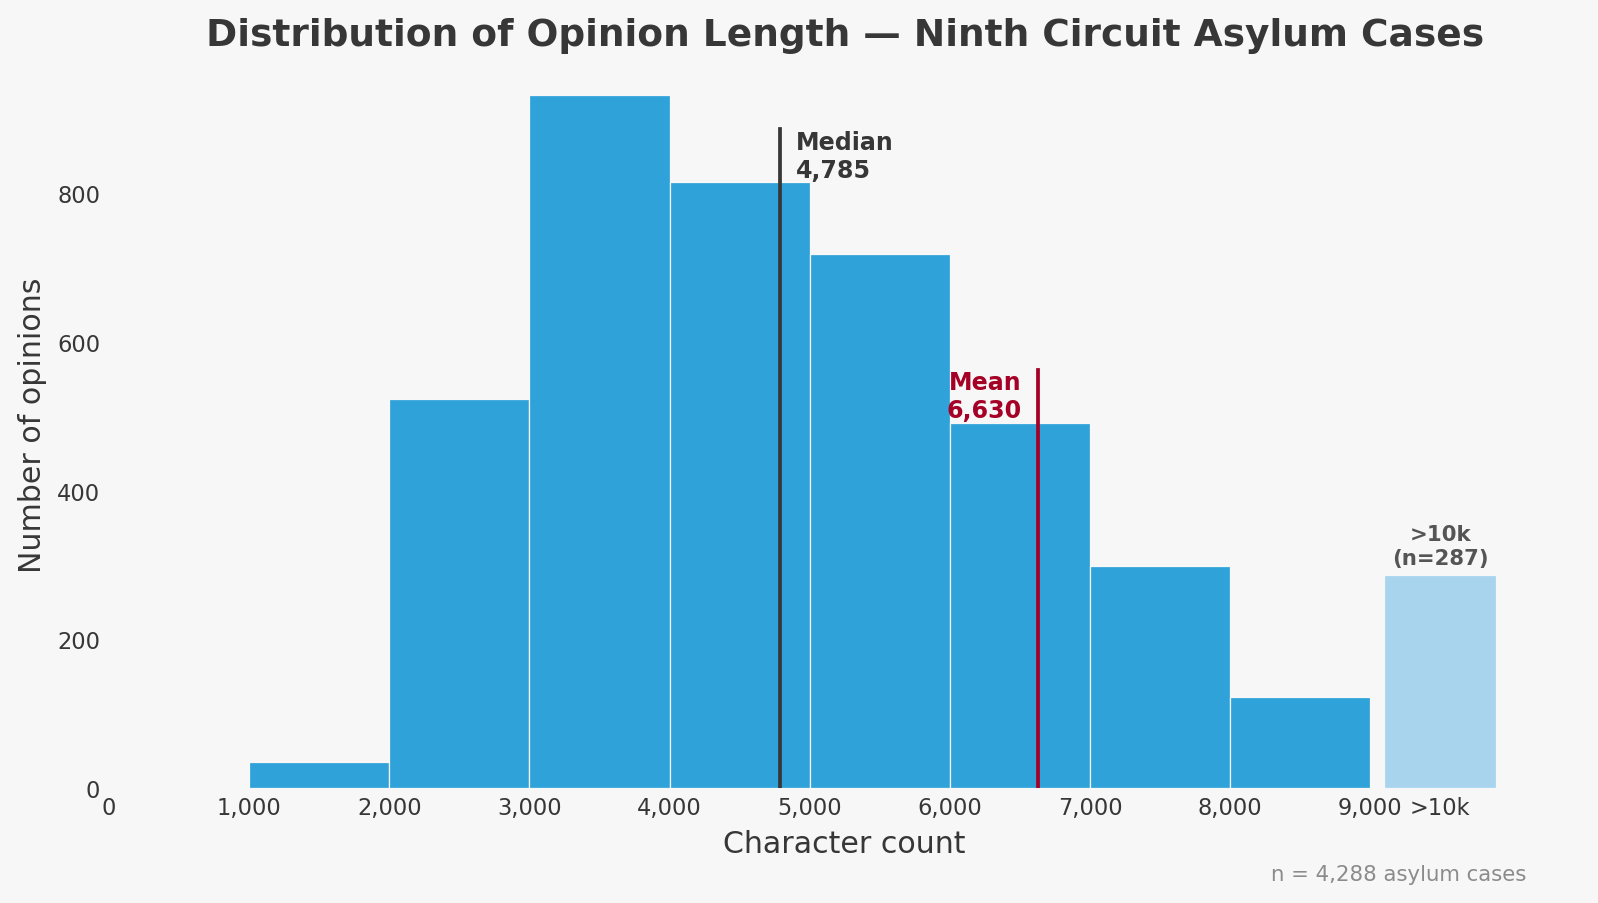
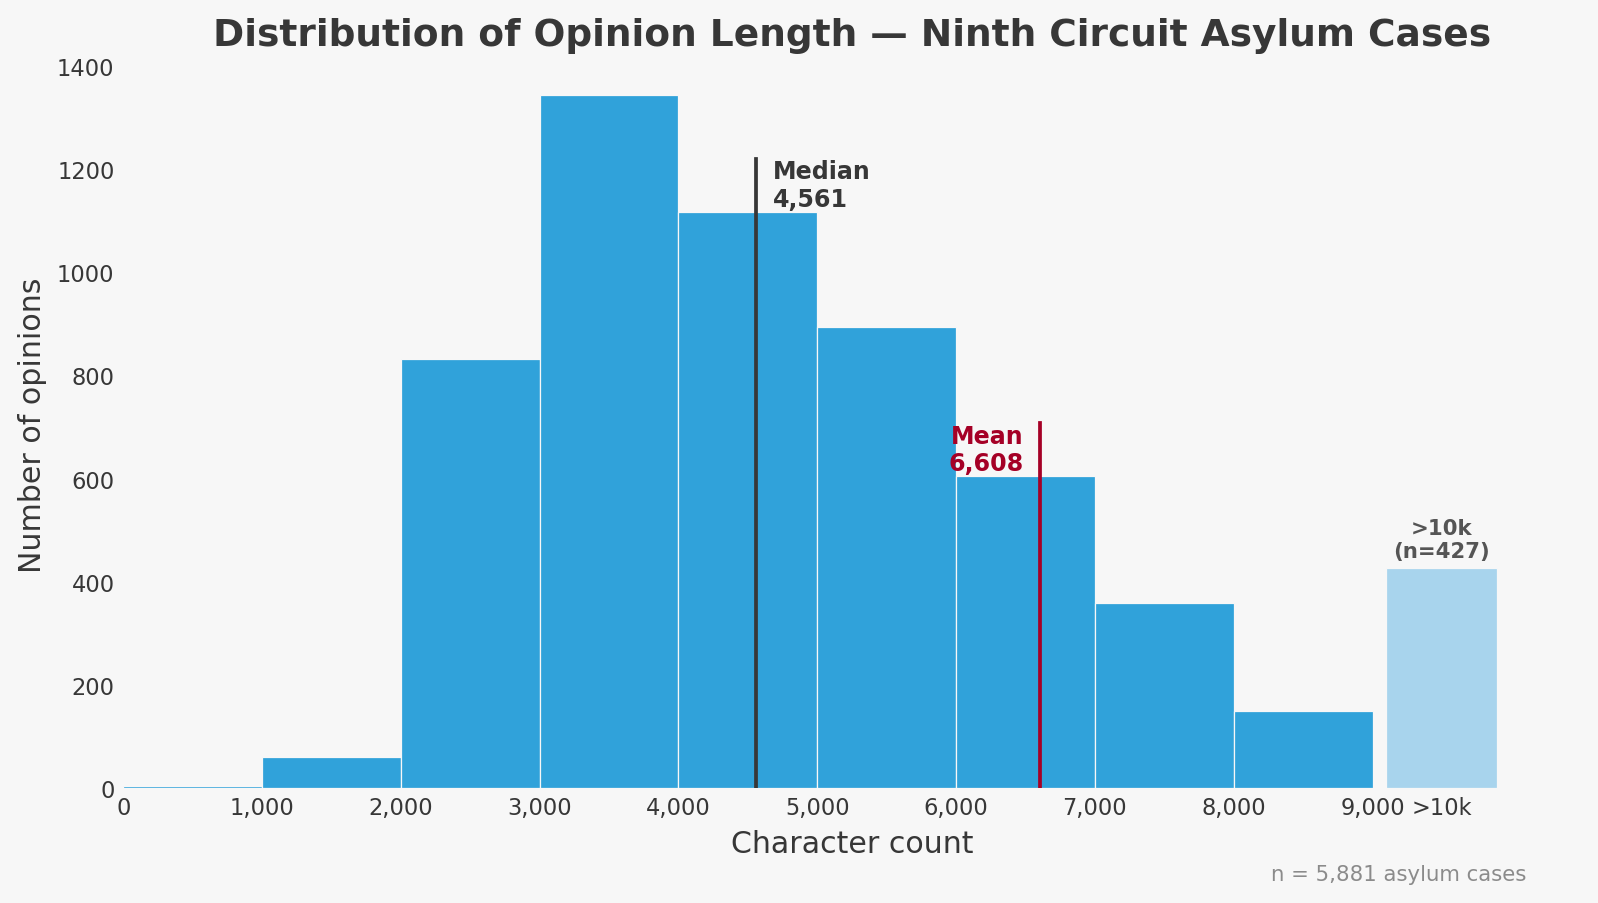
Refresh opinion length chart and paginate full table
The chart script was silently capped at Supabase's 5000-row default;
paginating with .range() pulls all 5,881 cases for an accurate
distribution.

diff --git a/experiments/charts/opinion_length.py b/experiments/charts/opinion_length.py
@@ -29,13 +29,21 @@ OUT = Path(__file__).resolve().parent.parent.parent / "assets" / "char_count_dis
 
 def main():
     supabase = get_client()
-    result = (
-        supabase.table("asylum_cases")
-        .select("char_count")
-        .not_.is_("char_count", "null")
-        .execute()
-    )
-    char_counts = [r["char_count"] for r in result.data]
+    char_counts = []
+    page_size = 1000
+    offset = 0
+    while True:
+        result = (
+            supabase.table("asylum_cases")
+            .select("char_count")
+            .not_.is_("char_count", "null")
+            .range(offset, offset + page_size - 1)
+            .execute()
+        )
+        char_counts.extend(r["char_count"] for r in result.data)
+        if len(result.data) < page_size:
+            break
+        offset += page_size
     print(f"Loaded {len(char_counts):,} cases with char_count")
 
     n_over = sum(1 for c in char_counts if c > CAP)
